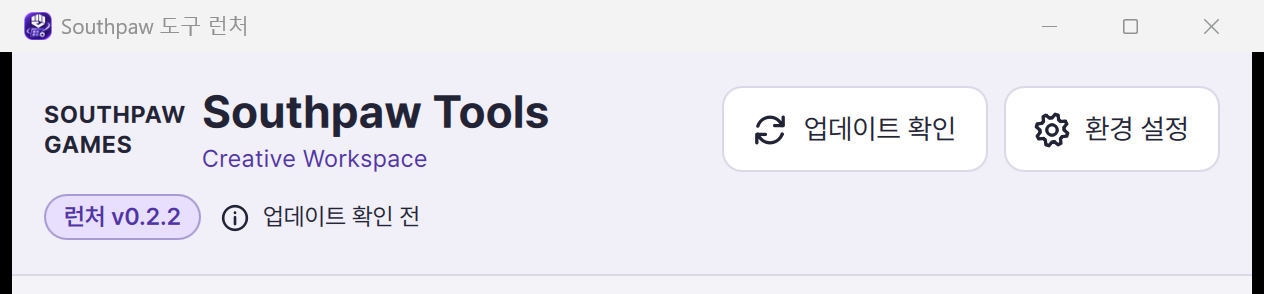
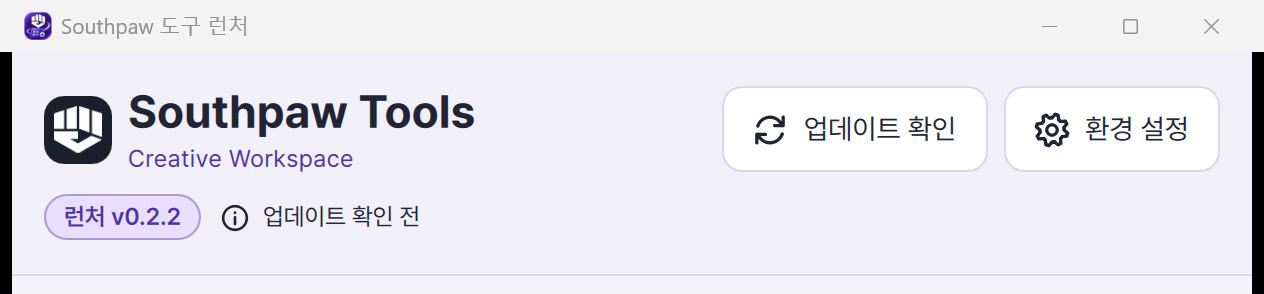
Record the signed Rod15 candidate and approved company branding

Changed region(s): [[0.0309, 0.3061, 0.432, 0.5816]]

diff --git a/docs/ui-reviews/header-branding/README.md b/docs/ui-reviews/header-branding/README.md
@@ -1,27 +1,27 @@
 # Southpaw Tools 헤더 브랜딩 검토
 
-QML 헤더의 회사 표시와 Windows의 제품 아이콘을 분리했다. 아래 공개 캡처는 공식 회사 심볼 파일의 재배포 범위를 확인하기 전까지 회사명을 텍스트로 표시하는 개발 빌드의 화면이다. 로컬 0.2.2 후보에는 공식 심볼이 포함된다. [Southpaw Games 공식 홈페이지](https://southpaw.games/)
+Southpaw Games의 공식 회사 심볼을 QML 헤더에 적용했다. 제목 표시줄의 보라색 아이콘은 런처의 제품 아이콘이다. 2026-11-23 사용자 승인을 근거로 회사 심볼과 Windows 검토 화면을 공개한다. [공식 홈페이지](https://southpaw.games/) · [심볼 원본](https://southpaw.games/wp-content/uploads/2022/07/Logo_White-4.png)
 
 ## 변경 전 · 0.2.1
 
-기존 헤더에서 런처 아이콘과 회사명이 한 그룹으로 배치됐다.
+기존 헤더에서 런처 아이콘과 회사명이 한 그룹에 배치됐다.
 
 ![기존 Windows 헤더](before-0.2.1.png)
 
 ## 변경 후 · 다크 100%
 
-공개 검토용 텍스트 표시에서 회사명, 제품명, 버전, 조회 버튼 배치를 확인했다.
+흰색 공식 심볼의 투명 배경을 유지했다.
 
-![다크 헤더의 텍스트 표시](after-dark-100.png)
+![공식 심볼을 적용한 다크 헤더](after-dark-100.png)
 
 ## 변경 후 · 라이트 150%
 
-라이트 테마에서 기존 제목 표시줄과 오른쪽 작업 버튼을 확인했다.
+같은 심볼을 짙은 바탕 위에 배치해 대비를 확보했다.
 
-![라이트 헤더의 텍스트 표시](after-light-150.png)
+![공식 심볼을 적용한 라이트 헤더](after-light-150.png)
 
 ## 변경 후 · 좁은 창 200%
 
-620 논리 픽셀 폭에서 버전·조회 상태가 둘째 줄에 배치된다.
+620 논리 픽셀에서 회사 심볼과 제품명이 첫 줄에, 버전과 조회 상태가 둘째 줄에 표시된다.
 
-![좁은 창 헤더의 텍스트 표시](after-compact-200.png)
+![공식 심볼을 적용한 좁은 창 헤더](after-compact-200.png)
